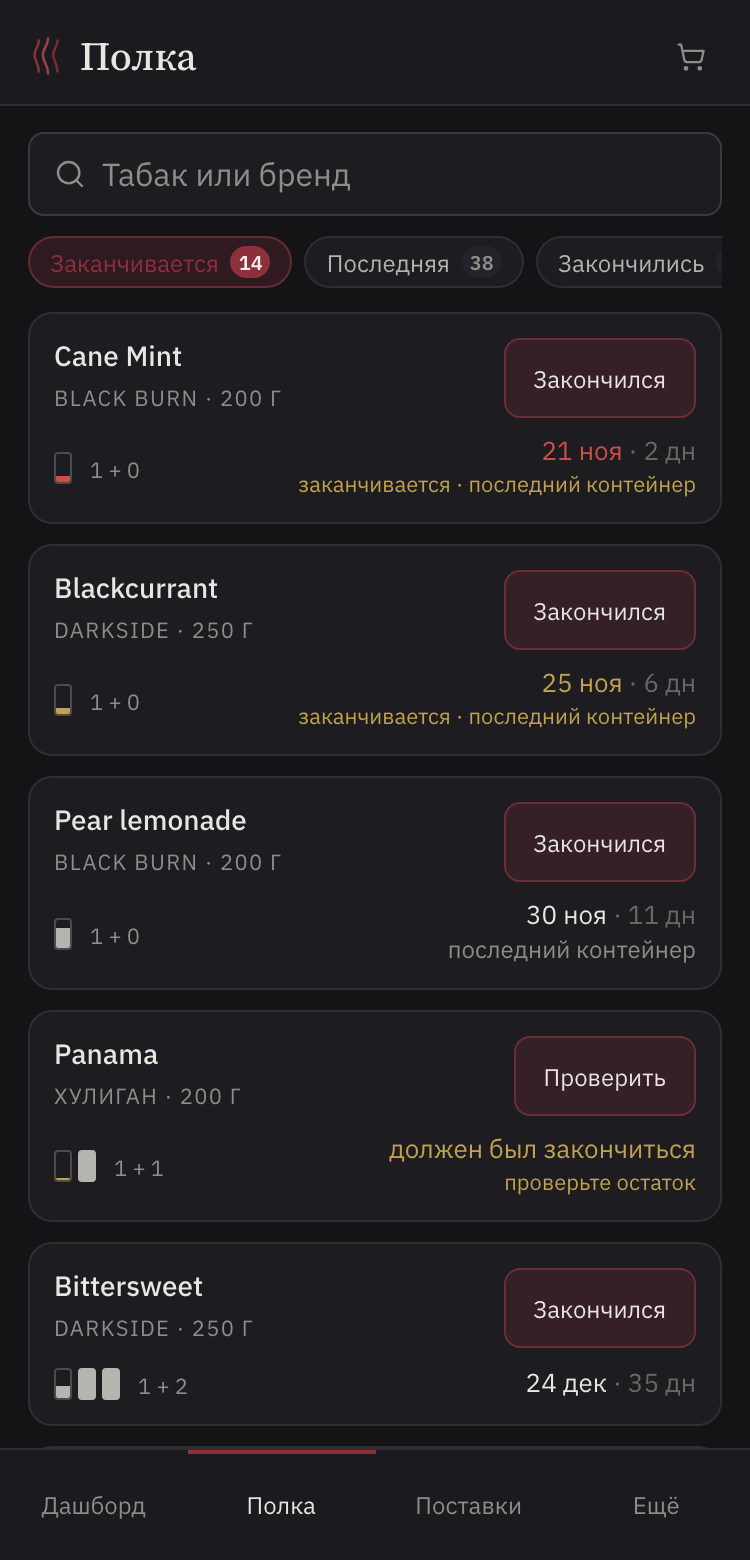
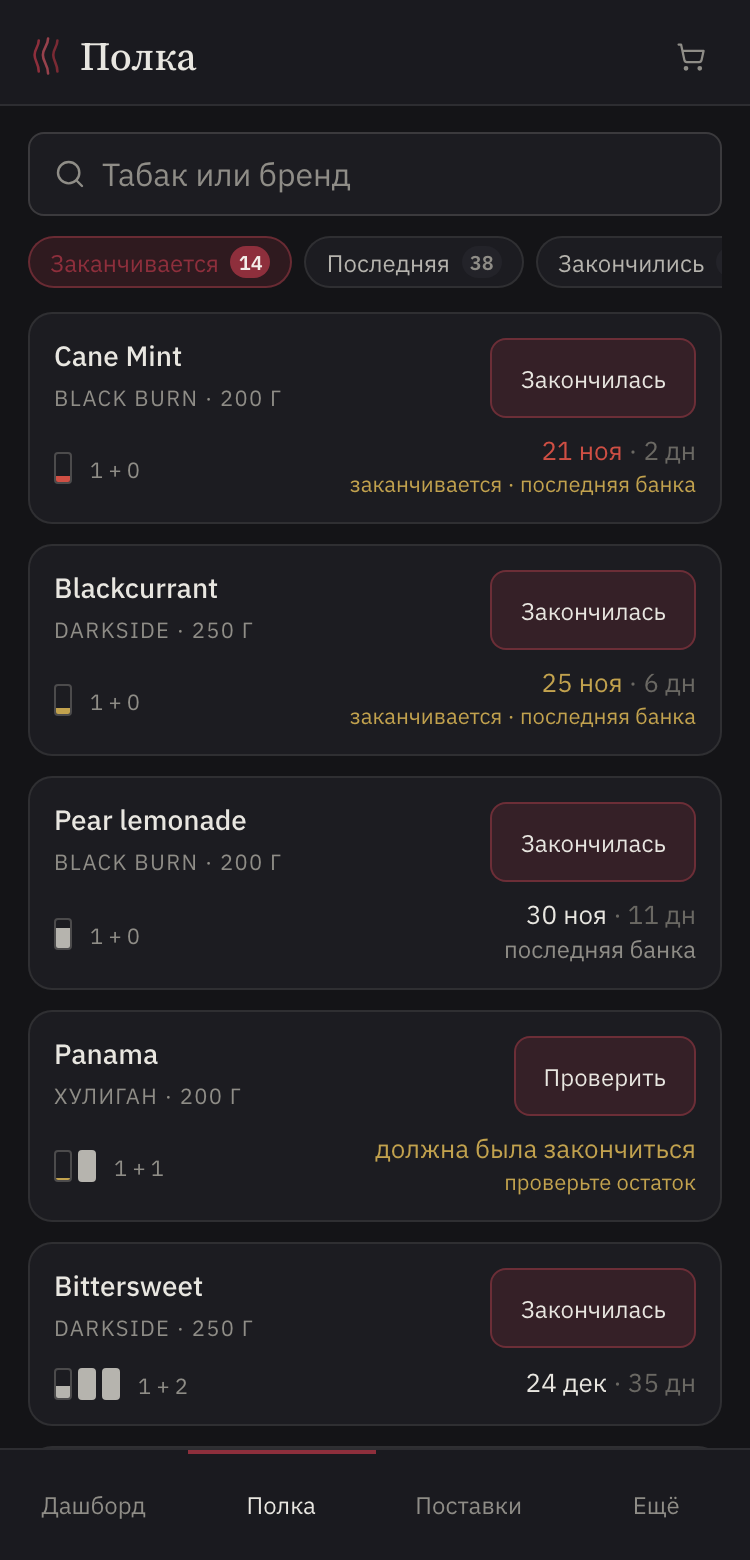
docs(design): инвентарь — снова «банка», вопрос мастеру о контейнерах (#152)
Мастера, по-видимому, пересыпают табак из банок в контейнеры, поэтому
«контейнер» как имя банки вводил бы в заблуждение. Термин «банка» (`Pack`)
вернулся в мокап и README. Добавлен вопрос к мастеру Nomad: как банки
связаны с контейнерами и что считать «Закончилась». Формулы расхода от
ответа не зависят, меняются подписи и, возможно, приёмка.

diff --git a/design/design_handoff_inventory/board.jsx b/design/design_handoff_inventory/board.jsx
@@ -65,7 +65,7 @@ function Pips({ row, lg }) {
   for (let i = 0; i < row.sealed; i += 1) slots.push(<span key={'s' + i} className="pip sealed" />);
   if (!slots.length) slots.push(<span key="n" className="pip none" />);
   return (
-    <span className={'pips' + (lg ? ' lg' : '')} title="Контейнеры: в работе и в запасе">
+    <span className={'pips' + (lg ? ' lg' : '')} title="Банки: в работе и в запасе">
       {slots}
       {!lg ? <span className="pips-meta">{row.open == null && !row.sealed ? 'нет' : (row.open != null ? '1' : '0') + ' + ' + row.sealed}</span> : null}
     </span>
@@ -81,14 +81,14 @@ function InvRate({ row }) {
 const INV_STATUS_TEXT = { out: ['inv-danger', 'закончился'], ending: ['inv-warn', 'заканчивается'], check: ['inv-warn', 'проверьте остаток'], plan: ['inv-faint', 'в плане'] };
 const invStatusLine = (row) => {
   if (row.status === 'stop') return <span className="inv-faint">стоп для гостей · {row.note}</span>;
-  if (INV_STATUS_TEXT[row.status]) { const [cls, text] = INV_STATUS_TEXT[row.status]; return <span className={cls}>{text}{row.last && row.status === 'ending' ? ' · последний контейнер' : ''}</span>; }
-  if (row.last) return <span className="inv-muted">последний контейнер</span>;
+  if (INV_STATUS_TEXT[row.status]) { const [cls, text] = INV_STATUS_TEXT[row.status]; return <span className={cls}>{text}{row.last && row.status === 'ending' ? ' · последняя банка' : ''}</span>; }
+  if (row.last) return <span className="inv-muted">последняя банка</span>;
   return null;
 };
 
 function InvUntilDate({ row }) {
   if (row.status === 'out') return <span className="inv-danger">{row.until}</span>;
-  if (row.status === 'check') return <span className="inv-warn">должен был закончиться</span>;
+  if (row.status === 'check') return <span className="inv-warn">должна была закончиться</span>;
   if (row.days == null) return <span className="inv-faint">—</span>;
   const cls = row.days <= 3 ? 'inv-danger' : row.days <= 7 ? 'inv-warn' : '';
   return <span className={'inv-num ' + cls}>{row.until} <span className="inv-faint">· {row.days} дн</span></span>;
@@ -103,15 +103,15 @@ function InvUntil({ row, stacked }) {
 function InvRowMenu({ row, pos, onMark, onClose }) {
   return (
     <div className="inv-pop" style={pos} onClick={(e) => e.stopPropagation()}>
-      <span className="inv-pop-label">Сколько осталось в открытом</span>
+      <span className="inv-pop-label">Сколько осталось в открытой</span>
       <div className="inv-fracs">
         {['¾', '½', '⅓', '¼'].map((f, i) => <button key={f} className="inv-frac" onClick={() => onMark(row, f)} title={'Клавиша ' + (i + 1)}>{f}</button>)}
       </div>
       <div className="inv-sep" />
-      <button className="inv-pop-item" onClick={onClose}>Вскрыть ещё один контейнер</button>
-      <button className="inv-pop-item" onClick={onClose}>Добавить контейнер вручную</button>
+      <button className="inv-pop-item" onClick={onClose}>Вскрыть ещё одну банку</button>
+      <button className="inv-pop-item" onClick={onClose}>Добавить банку вручную</button>
       <button className="inv-pop-item" onClick={onClose}>{row.status === 'stop' ? 'Снять стоп для гостей' : 'Стоп для гостей'}</button>
-      <button className="inv-pop-item" onClick={onClose}>Списать контейнер…</button>
+      <button className="inv-pop-item" onClick={onClose}>Списать банку…</button>
       <div className="inv-sep" />
       <button className="inv-pop-item" onClick={onClose}>Убрать с полки <span className="inv-faint">история останется</span></button>
     </div>
@@ -128,7 +128,7 @@ function InvActions({ row, menuOpen, onEmpty, onMenu, onMark, onCloseMenu }) {
     const d = desk.getBoundingClientRect();
     setPos({ top: a.bottom - d.top + 4, right: d.right - a.right });
   }, [menuOpen]);
-  let primary = <MasterButton size="sm" onClick={() => onEmpty(row)}>Закончился</MasterButton>;
+  let primary = <MasterButton size="sm" onClick={() => onEmpty(row)}>Закончилась</MasterButton>;
   if (row.status === 'out' || row.status === 'plan') primary = <span className="inv-faint" style={{ fontSize: 12 }}>в «К заказу»</span>;
   if (row.status === 'stop') primary = <MasterButton size="sm" variant="ghost">Снять стоп</MasterButton>;
   if (row.status === 'check') primary = <MasterButton size="sm" onClick={() => onMenu(row.id)}>Отметить остаток</MasterButton>;
@@ -149,7 +149,7 @@ function InvShelfTable({ rows, menuFor, setMenuFor, onEmpty, onMark, onOpen }) {
         { key: 'name', label: 'ТАБАК', width: 'minmax(0,1.5fr)', render: (r) => (
           <span className="inv-name"><b>{r.name}</b><span>{r.brand} · {r.grams} г</span></span>
         ) },
-        { key: 'packs', label: 'КОНТЕЙНЕРЫ', width: '110px', render: (r) => <Pips row={r} /> },
+        { key: 'packs', label: 'БАНКИ', width: '110px', render: (r) => <Pips row={r} /> },
         { key: 'remain', label: 'ОСТАТОК', width: '84px', align: 'right', render: (r) => <span className="inv-num">{r.remain ? '≈ ' + r.remain + ' г' : '—'}</span> },
         { key: 'rate', label: 'РАСХОД', width: '130px', render: (r) => <InvRate row={r} /> },
         { key: 'until', label: 'ХВАТИТ ДО', width: '200px', render: (r) => <InvUntil row={r} stacked /> },
@@ -165,7 +165,7 @@ function InvShelfTable({ rows, menuFor, setMenuFor, onEmpty, onMark, onOpen }) {
 }
 
 const INV_STATUS_CHIPS = [
-  ['all', 'Все'], ['ok', 'Есть'], ['last', 'Последний контейнер'], ['ending', 'Заканчивается'], ['out', 'Закончились'], ['stop', 'Стоп'], ['plan', 'В плане'],
+  ['all', 'Все'], ['ok', 'Есть'], ['last', 'Последняя банка'], ['ending', 'Заканчивается'], ['out', 'Закончились'], ['stop', 'Стоп'], ['plan', 'В плане'],
 ];
 const invMatchStatus = (row, key) => {
   if (key === 'all') return true;
@@ -229,36 +229,36 @@ function InvDrawer({ row, onClose, few }) {
         </div>
 
         <div style={{ display: 'flex', gap: 8 }}>
-          <MasterButton variant="primary">Закончился</MasterButton>
+          <MasterButton variant="primary">Закончилась</MasterButton>
           <MasterButton>Осталось ¾ ½ ⅓ ¼</MasterButton>
         </div>
 
         <div className="inv-kv">
           {few ? (
             <>
-              <div><span>Расход</span><b className="inv-faint">мало данных</b><small>появится, когда закончится первый контейнер или после двух отметок</small></div>
+              <div><span>Расход</span><b className="inv-faint">мало данных</b><small>появится, когда закончится первая банка или после двух отметок</small></div>
               <div><span>Хватит до</span><b>~ 15 дек</b><small>по бренду Сарма: ≈ 8 г/день</small></div>
-              <div><span>Остаток</span><b>≈ 380 г</b><small>открытый ≈ 180 г + 1 в запасе</small></div>
+              <div><span>Остаток</span><b>≈ 380 г</b><small>открытая ≈ 180 г + 1 в запасе</small></div>
               <div><span>Цена грамма</span><b>7,65 ₽</b><small>≈ 138 ₽ на чашу 18 г</small></div>
             </>
           ) : (
             <>
               <div><span>Хватит до</span><b>11 дек</b><small>22 дня · с запасом</small></div>
-              <div><span>Остаток</span><b>≈ 290 г</b><small>открытый ≈ 90 г + 1 в запасе</small></div>
-              <div><span>Расход</span><b>13 г/день</b><small>по 3 контейнерам за 60 дней</small></div>
+              <div><span>Остаток</span><b>≈ 290 г</b><small>открытая ≈ 90 г + 1 в запасе</small></div>
+              <div><span>Расход</span><b>13 г/день</b><small>по 3 банкам за 60 дней</small></div>
               <div><span>Цена грамма</span><b>7,75 ₽</b><small>≈ 140 ₽ на чашу 18 г</small></div>
             </>
           )}
         </div>
 
         <div style={{ display: 'grid', gap: 8 }}>
-          <h3 className="inv-h3">Контейнеры</h3>
+          <h3 className="inv-h3">Банки</h3>
           <div className="inv-packs">
             {(few ? hist.packs.slice(0, 2) : hist.packs).map((p) => (
               <div className="inv-pack" key={p.n}>
                 <span className={'pip ' + (p.state === 'sealed' ? 'sealed' : p.state === 'empty' ? 'none' : '')}>{p.state === 'open' ? <i style={{ height: p.fill * 100 + '%' }} /> : null}</span>
-                <span className="inv-pack-copy"><b>{p.title} · контейнер {p.n}</b><span>{p.line}</span></span>
-                <MasterIconButton label="Действия с контейнером" small><Ic name="Ellipsis" size={14} /></MasterIconButton>
+                <span className="inv-pack-copy"><b>{p.title} · банка {p.n}</b><span>{p.line}</span></span>
+                <MasterIconButton label="Действия с банкой" small><Ic name="Ellipsis" size={14} /></MasterIconButton>
               </div>
             ))}
           </div>
@@ -266,7 +266,7 @@ function InvDrawer({ row, onClose, few }) {
 
         {!few ? (
           <div style={{ display: 'grid', gap: 6 }}>
-            <h3 className="inv-h3">Расход по контейнерам, г/день</h3>
+            <h3 className="inv-h3">Расход по банкам, г/день</h3>
             <div className="inv-bars">
               {hist.bars.map((v, i) => (
                 <div className={'inv-bar' + (i === hist.bars.length - 1 ? ' partial' : '')} key={i}>
@@ -283,7 +283,7 @@ function InvDrawer({ row, onClose, few }) {
           <h3 className="inv-h3">Настройки</h3>
           <div className="inv-setting"><span>Фасовка по умолчанию<small>если в счёте вес не указан</small></span><span className="inv-select" style={{ width: 90 }}>{row.grams} г <Ic name="ChevronDown" size={13} /></span></div>
           <div className="inv-setting"><span>Держим постоянно<small>закончится — попадёт в «К заказу»</small></span><MasterToggle checked label="Держим постоянно" /></div>
-          <div className="inv-setting"><span>Стоп для гостей<small>контейнеры есть, но гостю не предлагать</small></span><MasterToggle checked={false} label="Стоп для гостей" /></div>
+          <div className="inv-setting"><span>Стоп для гостей<small>банки есть, но гостю не предлагать</small></span><MasterToggle checked={false} label="Стоп для гостей" /></div>
         </div>
 
         <div style={{ display: 'grid', gap: 6 }}>
@@ -323,7 +323,7 @@ function InvReorder({ copied }) {
           <pre className="inv-copy">{'Добрый день! Заказ:\nBlack Burn Cane Mint 200 г — 3 шт\nSebero Лимонная шипучка 200 г — 2 шт\nBlack Burn Pear lemonade 200 г — 2 шт\nСпасибо!'}</pre>
         </MasterCard>
       ) : null}
-      <p className="hint">Количество — расход на 21 день, округлено до контейнера. Срок поставки — 7 дней (настройка точки).</p>
+      <p className="hint">Количество — расход на 21 день, округлено до банки. Срок поставки — 7 дней (настройка точки).</p>
     </div>
   );
 }
@@ -345,7 +345,7 @@ function InvShelfScreen({ init = {}, onTab }) {
     setMenuFor(null);
     if (row.sealed > 0) {
       setRows((cur) => cur.map((r) => (r.id === row.id ? { ...r, open: 1, sealed: r.sealed - 1, last: r.sealed - 1 === 0 } : r)));
-      setToast({ title: row.brand + ' ' + row.name, text: 'контейнер пустой, следующий вскрыт. В запасе: ' + (row.sealed - 1) + '.' });
+      setToast({ title: row.brand + ' ' + row.name, text: 'банка пустая, следующая вскрыта. В запасе: ' + (row.sealed - 1) + '.' });
     } else {
       setRows((cur) => cur.map((r) => (r.id === row.id ? { ...r, open: null, remain: 0, status: 'out', until: 'закончился сегодня', last: false } : r)));
       setToast({ title: row.brand + ' ' + row.name, text: 'табак закончился, гости его больше не видят' + (row.mixes ? '. Миксов скрыто: ' + row.mixes : '') + '. Добавлен в «К заказу».' });
@@ -368,8 +368,8 @@ function InvShelfScreen({ init = {}, onTab }) {
       <MasterPageHeader
         eyebrow={'ИНВЕНТАРИЗАЦИЯ · ' + INV_D.today}
         title="Полка"
-        subtitle="Контейнеры на полке, расход и прогноз. Закончился контейнер — одна кнопка."
-        meta={s.shelf + ' позиций · ' + s.packs + ' контейнеров'}
+        subtitle="Банки на полке, расход и прогноз. Закончилась банка — одна кнопка."
+        meta={s.shelf + ' позиций · ' + s.packs + ' банок'}
         actions={<>
           <span className="inv-seg">
             <button aria-pressed={view === 'shelf'} onClick={() => setView('shelf')}>Полка</button>
@@ -380,7 +380,7 @@ function InvShelfScreen({ init = {}, onTab }) {
         </>}
       />
       <MasterStatsRow tiles={[
-        { label: 'НА ПОЛКЕ', value: s.shelf, hint: s.packs + ' контейнеров · ≈ ' + s.kg + ' кг' },
+        { label: 'НА ПОЛКЕ', value: s.shelf, hint: s.packs + ' банок · ≈ ' + s.kg + ' кг' },
         { label: 'ЗАКАНЧИВАЕТСЯ', value: s.ending, hint: 'хватит на 7 дней и меньше', tone: 'warning' },
         { label: 'ЗАКОНЧИЛИСЬ', value: s.out, hint: 'держим постоянно — в «К заказу»', tone: 'danger' },
         { label: 'СЕГОДНЯ УЙДЁТ', value: '≈ ' + s.todayG + ' г', hint: '≈ ' + s.todayBowls + ' чаш по 18 г · четверг +8 %' },
@@ -403,7 +403,7 @@ function InvShelfScreen({ init = {}, onTab }) {
           <div className="inv-keys">
             <span><b className="inv-kbd">/</b> поиск</span>
             <span><b className="inv-kbd">↑</b><b className="inv-kbd">↓</b> строка</span>
-            <span><b className="inv-kbd">E</b> закончился</span>
+            <span><b className="inv-kbd">E</b> закончилась</span>
             <span><b className="inv-kbd">1</b>–<b className="inv-kbd">4</b> осталось ¾ ½ ⅓ ¼</span>
             <span><b className="inv-kbd">Enter</b> карточка</span>
             <span><b className="inv-kbd">Z</b> отменить</span>
@@ -427,7 +427,7 @@ function InvDeliveries({ onTab, edge }) {
         actions={<MasterButton variant="primary" icon={<Ic name="FileUp" size={14} />} onClick={() => onTab && onTab('parse')}>Загрузить счёт</MasterButton>}
       />
       <MasterStatsRow tiles={[
-        { label: 'ЗА НОЯБРЬ', value: '66 076 ₽', hint: '45 контейнеров' },
+        { label: 'ЗА НОЯБРЬ', value: '66 076 ₽', hint: '45 банок' },
         { label: 'ЖДУТ ПРИХОДА', value: 1, hint: 'черновик от 18 ноя', tone: 'warning' },
         { label: 'ПОСТАВЩИКОВ', value: 2, hint: 'сопоставлений в памяти: 61' },
         { label: 'ЦЕНА ГРАММА', value: '7,6 ₽', hint: 'в среднем по полке' },
@@ -443,7 +443,7 @@ function InvDeliveries({ onTab, edge }) {
       {edge === 'dup' ? (
         <div className="inv-alert">
           <Ic name="Copy" />
-          <p className="grow"><b>Счёт № 03944 от «Каспий Опт» уже загружен</b> 11 ноября и принят 12 ноября. Второй раз те же контейнеры не создаём.</p>
+          <p className="grow"><b>Счёт № 03944 от «Каспий Опт» уже загружен</b> 11 ноября и принят 12 ноября. Второй раз те же банки не создаём.</p>
           <MasterButton size="sm">Открыть принятый</MasterButton>
           <MasterButton size="sm" variant="ghost">Это другой счёт</MasterButton>
         </div>
@@ -459,7 +459,7 @@ function InvDeliveries({ onTab, edge }) {
           { key: 'supplier', label: 'ПОСТАВЩИК', width: 'minmax(0,1fr)' },
           { key: 'number', label: 'СЧЁТ', width: '130px' },
           { key: 'lines', label: 'СТРОК', width: '70px', align: 'right' },
-          { key: 'packs', label: 'КОНТЕЙНЕРОВ', width: '110px', align: 'right' },
+          { key: 'packs', label: 'БАНОК', width: '70px', align: 'right' },
           { key: 'sum', label: 'СУММА', width: '110px', align: 'right', render: (r) => <span className="inv-num">{r.sum}</span> },
           { key: 'arrived', label: 'ПРИШЛО', width: '100px' },
           { key: 'status', label: 'СТАТУС', width: '170px', render: (r) => r.status === 'draft'
@@ -530,7 +530,7 @@ function InvParse({ edge }) {
           } },
           { key: 'tag', label: '', width: '110px', render: (r) => (r.created ? <MasterTag tone="info">создана</MasterTag> : INV_MATCH_TAG[r.match]) },
           { key: 'grams', label: 'ФАСОВКА', width: '76px', render: (r) => (r.grams ? <span className="inv-num">{r.grams} г</span> : <span className="inv-faint">—</span>) },
-          { key: 'qty', label: 'КОЛ-ВО', width: '86px', render: (r) => (r.match === 'skip' ? <span className="inv-faint">—</span> : <span className="inv-stepper"><button>−</button><span>{r.qty}</span><button>+</button></span>) },
+          { key: 'qty', label: 'БАНОК', width: '86px', render: (r) => (r.match === 'skip' ? <span className="inv-faint">—</span> : <span className="inv-stepper"><button>−</button><span>{r.qty}</span><button>+</button></span>) },
           { key: 'price', label: 'ЦЕНА', width: '84px', align: 'right', render: (r) => <span className="inv-num">{r.price}</span> },
           { key: 'came', label: 'ПРИШЛО', width: '70px', align: 'center', render: (r) => (r.match === 'skip' ? null : <MasterToggle checked={r.came} onChange={(v) => resolve(r.i, { came: v })} label="Пришло" />) },
         ]}
@@ -541,7 +541,7 @@ function InvParse({ edge }) {
         <p className="grow">{edge === 'sum'
           ? <span className="inv-warn">Сумма строк 21 770 ₽ ≠ итог 22 270 ₽</span>
           : <span className="inv-ok">Сумма строк 22 270 ₽ = итог счёта</span>}
-          {' · будет ' + packs + ' контейнеров'}{pending ? <span className="inv-warn">{' · без табака: ' + pending + ' строки'}</span> : null}</p>
+          {' · будет ' + packs + ' банок'}{pending ? <span className="inv-warn">{' · без табака: ' + pending + ' строки'}</span> : null}</p>
         <MasterButton variant="ghost">Сохранить черновик</MasterButton>
         <MasterButton variant="primary" disabled={pending > 0}>{pending ? 'Выберите табак в ' + pending + ' строках' : 'Принять поставку'}</MasterButton>
       </div>
@@ -671,10 +671,10 @@ function InvDashboard() {
 function InvEmptyShelf({ onTab }) {
   return (
     <div className="page">
-      <MasterPageHeader eyebrow="ИНВЕНТАРИЗАЦИЯ" title="Полка" subtitle="Контейнеры на полке, расход и прогноз." />
+      <MasterPageHeader eyebrow="ИНВЕНТАРИЗАЦИЯ" title="Полка" subtitle="Банки на полке, расход и прогноз." />
       <div className="inv-empty-hero">
         <h2>Полка пуста</h2>
-        <p>Контейнеры появляются из поставок. Загрузите первый счёт поставщика — строки сопоставим с каталогом, вы проверите и примете. Табаки, которые уже стоят на полке, можно добавить из каталога без счёта.</p>
+        <p>Банки появляются из поставок. Загрузите первый счёт поставщика — строки сопоставим с каталогом, вы проверите и примете. Табаки, которые уже стоят на полке, можно добавить из каталога без счёта.</p>
         <div style={{ display: 'flex', gap: 8 }}>
           <MasterButton variant="primary" icon={<Ic name="FileUp" size={14} />} onClick={() => onTab && onTab('parse')}>Загрузить счёт</MasterButton>
           <MasterButton variant="ghost">Добавить из каталога</MasterButton>
@@ -684,7 +684,7 @@ function InvEmptyShelf({ onTab }) {
   );
 }
 
-// Интерактивный «Мастер»: вкладки, «Закончился», меню, карточка, поставки.
+// Интерактивный «Мастер»: вкладки, «Закончилась», меню, карточка, поставки.
 function InvApp({ start = 'shelf', init = {} }) {
   const [tab, setTab] = React.useState(start);
   const top = tab === 'parse' ? 'deliveries' : tab;
@@ -724,7 +724,7 @@ function MShelf({ sheet }) {
             <span className="inv-name"><b>{r.name}</b><span>{r.brand} · {r.grams} г</span></span>
             {r.status === 'check'
               ? <button className="m-empty-btn" onClick={() => setOpen(r.id)}>Проверить</button>
-              : <button className="m-empty-btn">Закончился</button>}
+              : <button className="m-empty-btn">Закончилась</button>}
             <div className="m-card-meta">
               <button className="m-pips" onClick={() => setOpen(r.id)} aria-label={'Сколько осталось: ' + r.name}><Pips row={r} /></button>
               <span style={{ fontSize: 13, textAlign: 'right' }}><InvUntil row={r} stacked /></span>
@@ -741,10 +741,10 @@ function MShelf({ sheet }) {
             <div>
               <p className="inv-eyebrow">{row.brand} · {row.grams} г</p>
               <h2>{row.name}</h2>
-              <span className="inv-muted">Открытый контейнер · вскрыт 7 ноя · {row.mark ? 'отметка ' + row.mark : 'отметок нет'}</span>
+              <span className="inv-muted">Открытая банка · вскрыта 7 ноя · {row.mark ? 'отметка ' + row.mark : 'отметок нет'}</span>
             </div>
             <div style={{ display: 'grid', gap: 8 }}>
-              <h3 className="inv-h3">Сколько осталось в открытом?</h3>
+              <h3 className="inv-h3">Сколько осталось в открытой?</h3>
               <div className="m-fracs">
                 {[['1', 'полная'], ['¾', ''], ['½', ''], ['⅓', ''], ['¼', '']].map(([f, sub]) => (
                   <button key={f} className={'m-frac' + (frac === f ? ' on' : '')} onClick={() => setFrac(f)}>{f}{sub ? <small>{sub}</small> : null}</button>
@@ -752,7 +752,7 @@ function MShelf({ sheet }) {
               </div>
               <span className="inv-faint" style={{ fontSize: 12 }}>Можно не отмечать — отметка только уточняет прогноз.</span>
             </div>
-            <button className="m-big">Закончился · запаса нет</button>
+            <button className="m-big">Закончилась · запаса нет</button>
           </section>
         </>
       ) : null}
@@ -762,11 +762,11 @@ function MShelf({ sheet }) {
 
 // ── Кадры доски и режим #shot= ──
 const INV_SHOTS = [
-  { id: 'shelf', group: 'shelf', name: 'Полка', note: 'Статусы-чипы со счётчиками, контейнеры-пипсы, «хватит до», «Закончился» в строке.', start: 'shelf' },
+  { id: 'shelf', group: 'shelf', name: 'Полка', note: 'Статусы-чипы со счётчиками, банки-пипсы, «хватит до», «Закончилась» в строке.', start: 'shelf' },
   { id: 'shelf-filters', group: 'shelf', name: 'Полка · фильтры', note: 'Все фильтры в браузере: 269 строк, без запросов к серверу.', start: 'shelf', init: { filters: true } },
   { id: 'shelf-menu', group: 'shelf', name: 'Полка · меню строки', note: 'Отметка ¾ ½ ⅓ ¼ — по желанию. Остальное — редкие действия.', start: 'shelf', init: { menu: 'ds-blackcurrant' } },
-  { id: 'shelf-undo', group: 'shelf', name: 'Полка · «Закончился» и отмена', note: 'Одно нажатие, 10 секунд на отмену, гость сразу перестаёт видеть табак.', start: 'shelf', init: { rows: INV_D.shelf.map((r) => (r.id === 'bb-cane' ? { ...r, open: null, remain: 0, status: 'out', until: 'закончился сегодня', last: false } : r)), toast: { title: 'Black Burn Cane Mint', text: 'табак закончился, гости его больше не видят. Миксов скрыто: 3. Добавлен в «К заказу».' } } },
-  { id: 'shelf-drawer', group: 'shelf', name: 'Карточка на полке', note: 'История контейнеров, расход по контейнерам, прогноз, настройки.', start: 'shelf', init: { drawer: 'bb-rasp' } },
+  { id: 'shelf-undo', group: 'shelf', name: 'Полка · «Закончилась» и отмена', note: 'Одно нажатие, 10 секунд на отмену, гость сразу перестаёт видеть табак.', start: 'shelf', init: { rows: INV_D.shelf.map((r) => (r.id === 'bb-cane' ? { ...r, open: null, remain: 0, status: 'out', until: 'закончился сегодня', last: false } : r)), toast: { title: 'Black Burn Cane Mint', text: 'табак закончился, гости его больше не видят. Миксов скрыто: 3. Добавлен в «К заказу».' } } },
+  { id: 'shelf-drawer', group: 'shelf', name: 'Карточка на полке', note: 'История банок, расход по банкам, прогноз, настройки.', start: 'shelf', init: { drawer: 'bb-rasp' } },
   { id: 'reorder', group: 'shelf', name: 'К заказу', note: 'Группы по последнему поставщику, количество — расход на 21 день.', start: 'shelf', init: { view: 'reorder', copied: true }, tall: true },
   { id: 'deliveries', group: 'deliveries', name: 'Поставки', note: 'Счета, черновик ждёт прихода.', start: 'deliveries' },
   { id: 'delivery-parse', group: 'deliveries', name: 'Разбор счёта', note: 'Реальный счёт поставщика: память, предложения, нет в каталоге, не табак, фасовка 25 г, ×2.', start: 'parse', tall: true },
@@ -774,7 +774,7 @@ const INV_SHOTS = [
   { id: 'catalog-all', group: 'catalog', name: 'Каталог → Все табаки', note: 'Каталог отделён от полки, колонки htreviews.', start: 'catalog', init: { view: 'all' } },
   { id: 'dashboard', group: 'dashboard', name: 'Дашборд: блок полки', note: 'Прогноз на сегодня, что заканчивается, траты, расход по неделям.', start: 'dashboard', tall: true },
   { id: 'edge-empty', group: 'edge', name: 'Пустая полка', start: 'shelf', init: { empty: true } },
-  { id: 'edge-few', group: 'edge', name: 'Мало данных о расходе', note: 'Прогноз по бренду, пока нет своего пустого контейнера.', start: 'shelf', init: { drawer: 'sr-passion', few: true } },
+  { id: 'edge-few', group: 'edge', name: 'Мало данных о расходе', note: 'Прогноз по бренду, пока нет своей пустой банки.', start: 'shelf', init: { drawer: 'sr-passion', few: true } },
   { id: 'edge-pdf', group: 'edge', name: 'PDF без текста', start: 'deliveries', init: { edge: 'pdf' } },
   { id: 'edge-dup', group: 'edge', name: 'Счёт уже загружен', start: 'deliveries', init: { edge: 'dup' } },
   { id: 'edge-sum', group: 'edge', name: 'Сумма не сходится', start: 'parse', init: { edge: 'sum' }, tall: true },
@@ -803,10 +803,10 @@ function InvBoard() {
     <div className="board">
       <header className="board-head">
         <p className="board-caps">#152 · Мастер · десктоп 1280 и телефон 375</p>
-        <h1 className="board-title">Инвентарь: поставки, контейнеры, расход</h1>
+        <h1 className="board-title">Инвентарь: поставки, банки, расход</h1>
         <p className="board-text">
-          Каталог (что бывает) отделён от полки (что держим). Контейнер приходит по счёту поставщика, вскрывается сам,
-          мастер отмечает только «Закончился» и, если хочет, остаток ¾ ½ ⅓ ¼. Из дат прихода, вскрытия и окончания
+          Каталог (что бывает) отделён от полки (что держим). Банка приходит по счёту поставщика, вскрывается сама,
+          мастер отмечает только «Закончилась» и, если хочет, остаток ¾ ½ ⅓ ¼. Из дат прихода, вскрытия и окончания
           считаются расход, прогноз «хватит до» и список «К заказу». htreviews — для идей закупки.
           Табаки и миксы — прод на 19 октября; мокап показывает полку через месяц после запуска, поставщики вымышлены, цифры htreviews условные.
         </p>
@@ -814,7 +814,7 @@ function InvBoard() {
 
       <section className="board-section">
         <h2 className="board-h2">Кликабельный прототип</h2>
-        <p className="frame-note">Вкладки «Полка», «Поставки», «Каталог», «Дашборд»; «Закончился» и отмена; меню «⋯»; клик по строке — карточка; «Загрузить счёт» — разбор.</p>
+        <p className="frame-note">Вкладки «Полка», «Поставки», «Каталог», «Дашборд»; «Закончилась» и отмена; меню «⋯»; клик по строке — карточка; «Загрузить счёт» — разбор.</p>
         <InvDesk><InvApp start="shelf" /></InvDesk>
       </section>
       <section className="board-section"><h2 className="board-h2">Полка</h2><div className="board-row">{section('shelf')}</div></section>

diff --git a/design/design_handoff_inventory/inventory-data.js b/design/design_handoff_inventory/inventory-data.js
@@ -1,6 +1,6 @@
 // Данные мокапа. Табаки и миксы — полка и каталог миксов прода на 19.10.2026
 // (GET /guest/mixer/palette, GET /guest/catalog/mixes). Мокап показывает полку через месяц
-// после запуска: «сегодня» — четверг, 19 ноября 2026. Контейнеры, расход, цены и поставки
+// после запуска: «сегодня» — четверг, 19 ноября 2026. Банки, расход, цены и поставки
 // смоделированы по двум реальным счетам; поставщики и номера счетов вымышлены,
 // цифры htreviews условные.
 window.INV = {
@@ -9,7 +9,7 @@ window.INV = {
   stats: { shelf: 269, packs: 412, kg: 78, ending: 14, out: 6, todayG: 540, todayBowls: 30 },
   statusCounts: { all: 269, ok: 211, last: 38, ending: 14, out: 6, stop: 3, plan: 4 },
 
-  // packs: open — доля остатка открытого контейнера, sealed — контейнеров в запасе.
+  // packs: open — доля остатка открытой банки, sealed — банок в запасе.
   // rate — г/день; rateKind: ok | brand (оценка по бренду) | none.
   shelf: [
     { id: 'bb-cane', brand: 'Black Burn', name: 'Cane Mint', grams: 200, profiles: ['minty'], open: 0.2, sealed: 0, remain: 40, rate: 21, rateKind: 'ok', until: '21 ноя', days: 2, status: 'ending', last: true, arrived: '5 ноя', supplier: 'Каспий Опт', mixes: 3 },
@@ -34,16 +34,16 @@ window.INV = {
     'sb-lemon': ['Барбариска с лимонадом', 'Лавандовый лимонад'],
   },
 
-  // История контейнеров Black Burn Raspberries для карточки.
+  // История банок Black Burn Raspberries для карточки.
   rasp: {
     packs: [
-      { n: 5, state: 'sealed', title: 'В запасе', line: 'пришёл 12 ноя · счёт № 03944 · 1 550 ₽' },
-      { n: 4, state: 'open', fill: 0.45, title: 'В работе', line: 'пришёл 12 ноя · вскрыт 14 ноя · отметка ½ 17 ноя' },
-      { n: 3, state: 'empty', title: 'Пустой', line: '29 окт → 14 ноя · 16 дн · 12,5 г/день' },
-      { n: 2, state: 'empty', title: 'Пустой', line: '15 окт → 29 окт · 14 дн · 14,3 г/день' },
+      { n: 5, state: 'sealed', title: 'В запасе', line: 'пришла 12 ноя · счёт № 03944 · 1 550 ₽' },
+      { n: 4, state: 'open', fill: 0.45, title: 'В работе', line: 'пришла 12 ноя · вскрыта 14 ноя · отметка ½ 17 ноя' },
+      { n: 3, state: 'empty', title: 'Пустая', line: '29 окт → 14 ноя · 16 дн · 12,5 г/день' },
+      { n: 2, state: 'empty', title: 'Пустая', line: '15 окт → 29 окт · 14 дн · 14,3 г/день' },
     ],
     bars: [14.3, 12.5, 13.1],
-    barLabels: ['контейнер 2', 'контейнер 3', 'контейнер 4 (идёт)'],
+    barLabels: ['банка 2', 'банка 3', 'банка 4 (идёт)'],
   },
 
   deliveries: [
